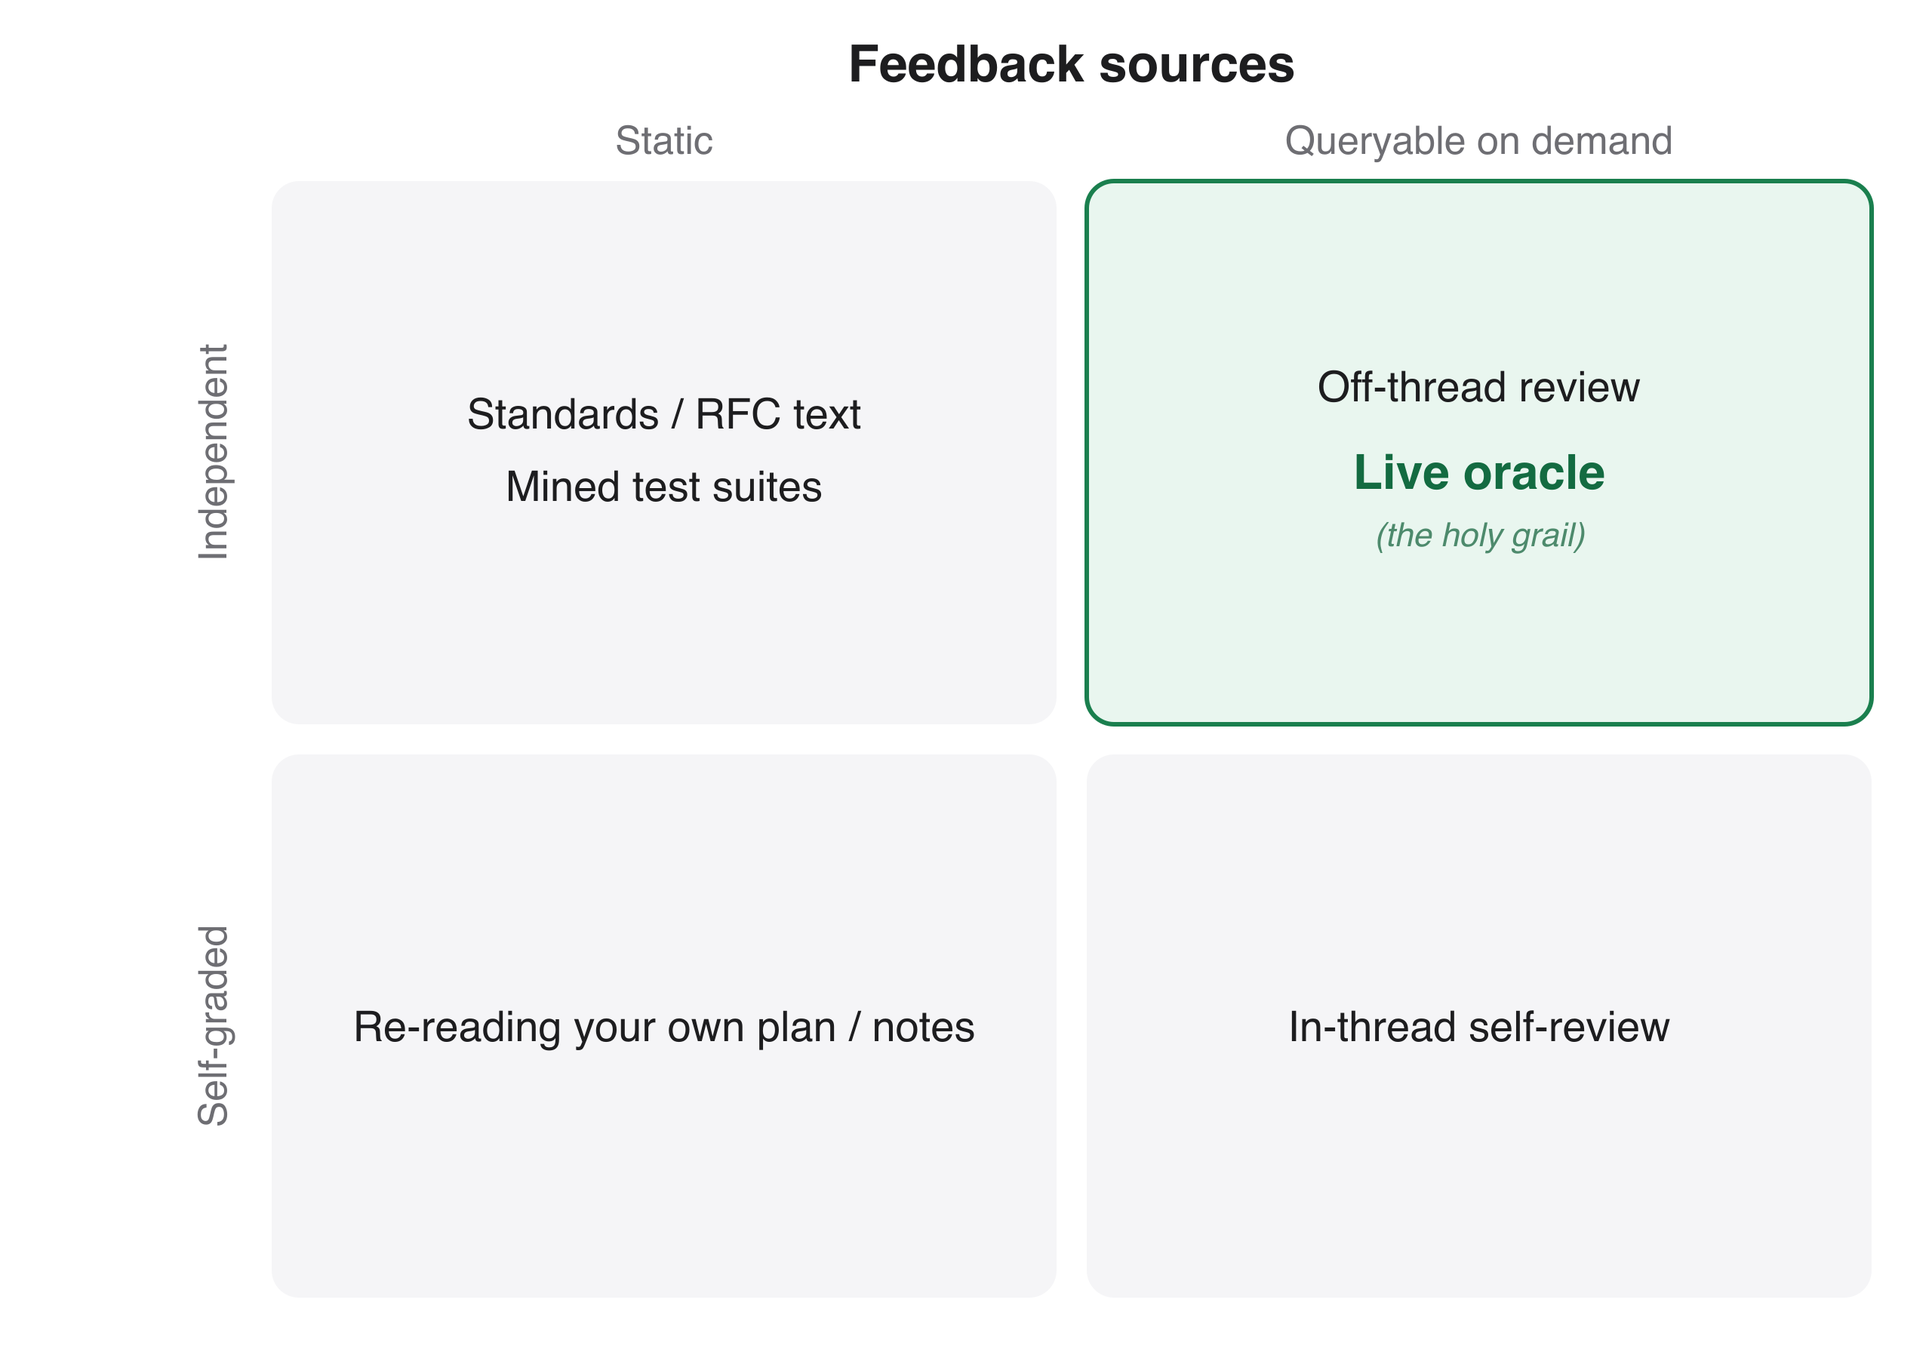
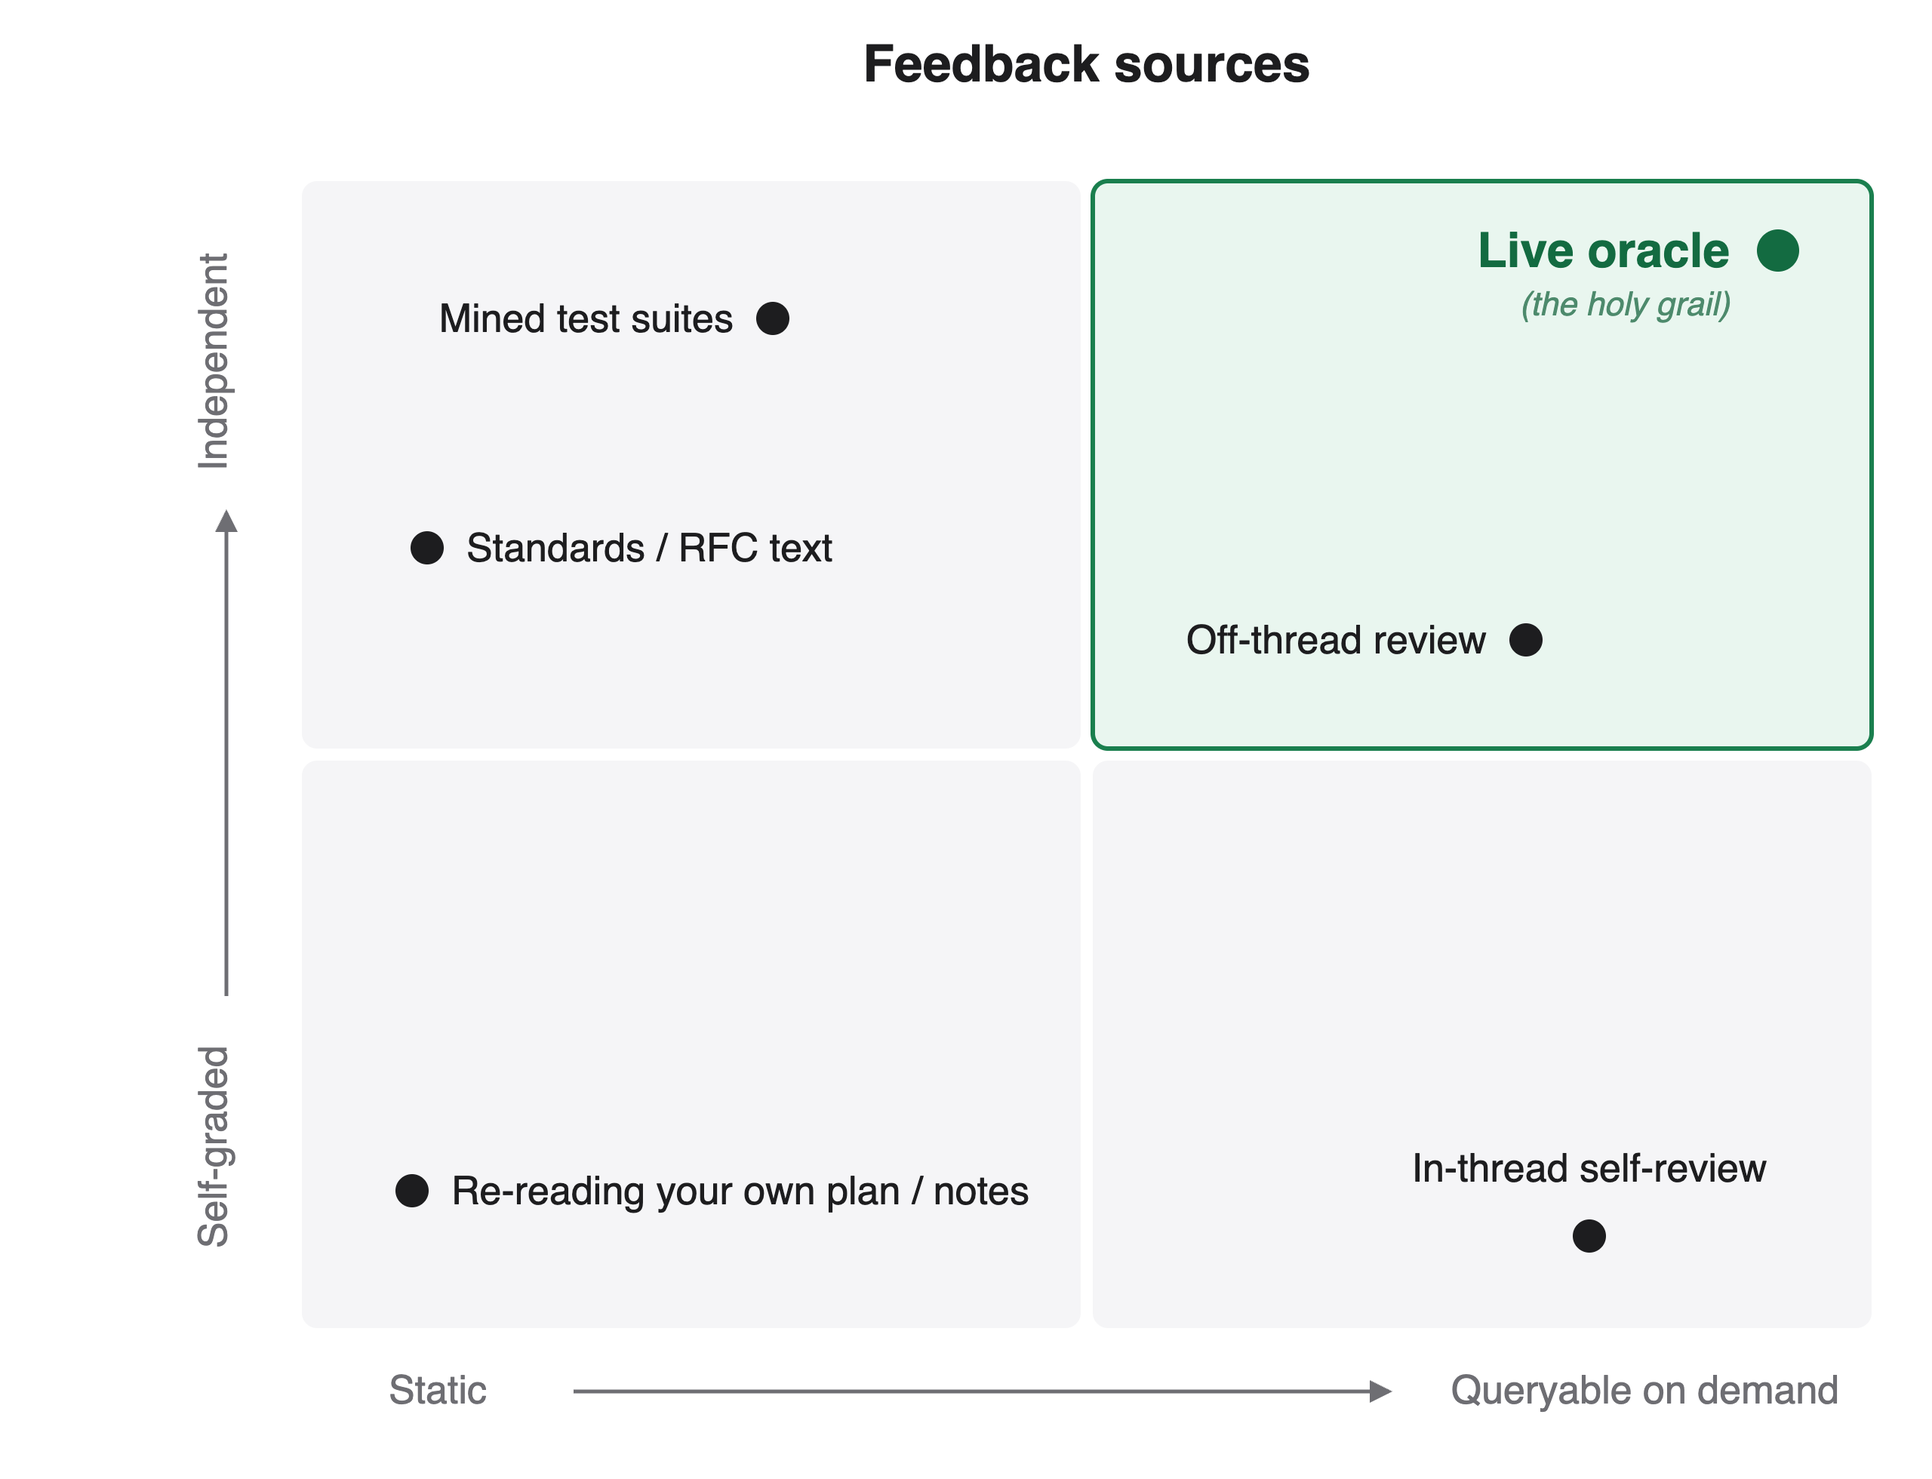
Updates

diff --git a/README.md b/README.md
@@ -1,6 +1,11 @@
 # Loop Driven Development
 
-*This repo collects my writing on loop driven development. This page makes the argument; three companion posts walk through real projects end to end — [building a corpus benchmark](ldd-in-practice.md), [grinding chart rendering against Excel](ldd-render-fidelity.md), and [performance work as a loop](ldd-perf.md) — and a closing post asks [whether codebases are learnable](learnable-codebases.md).*
+*This repo is a series of posts on how I've been using coding agents lately (June 2026). This page summarises my main thoughts, then several examples of this in practice, and a coda:*
+
+1. *[Loop Driven Development, in practice](01-ldd-in-practice.md) — building a corpus benchmark, decision by decision*
+2. *[Grinding chart rendering against Excel](02-ldd-render-fidelity.md) — a domain with no equality assertions*
+3. *[Performance work as a loop](03-ldd-perf.md) — same bytes, faster, with the oracle in an unusual place*
+4. *[Are codebases learnable?](04-learnable-codebases.md) — the closing post: is writing software so different from training a model?*
 
 ## The oracle problem
 
@@ -23,12 +28,7 @@ Agents improve by looping against feedback. As [Lance Martin puts it](https://x.
 - **Independence.** Does the feedback share provenance with the work, or does it come from somewhere the work can't reach? An agent grading its own output is student and examiner at once.
 - **Queryability.** Can you get an answer for a *new, specific input* on demand — or is the feedback a fixed artifact you can only read?
 
-![Feedback sources arranged by independence and queryability: self-graded and static is re-reading your own notes; self-graded and queryable is in-thread self-review; independent and static is standards text and mined test suites; independent and queryable is off-thread review and the live oracle — the holy grail](images/feedback-2x2.png)
-
-|  | Static | Queryable on demand |
-| :---- | :---- | :---- |
-| **Self-graded** | re-reading your own plan/notes | in-thread self-review |
-| **Independent** | standards/RFC text; mined test suites | off-thread review; **live oracle** |
+![Feedback sources plotted by independence and queryability: re-reading your own notes sits near the origin; in-thread self-review is queryable but has zero independence; standards text is independent but static, with mined test suites above it; off-thread review reaches the independent-and-queryable quadrant but well below the live oracle, which alone sits at the top-right corner — the holy grail](images/feedback-2x2.png)
 
 Ranked, worst to best:
 
@@ -78,7 +78,7 @@ Script the live reference. Capture inputs, ask the oracle, freeze the answers in
 
 **The operational artifact is a re-runnable recipe checked in alongside the snapshot.** The script does the live oracle query; the snapshot captures the result; CI asserts against the snapshot. When you need different output, suspect drift, or behavior changes — modify the script and re-run. The snapshot regenerates. The recipe is the provenance, the script is the version pin, the snapshot is the captured output. Nothing else is needed.
 
-**Distance assertions can stand in for equality assertions.** Instead of pinning each behavior by equality (`SUM("42", TRUE) == 43`), assert a distance over the whole output (`pixel_diff(impl, oracle) < 1%`; [Playwright's `toHaveScreenshot({ maxDiffPixelRatio })`](https://playwright.dev/docs/test-snapshots) is a mainstream instance; relative error for floats and edit distance for strings work the same way). Distance is cheaper to set up — one assertion covers the whole output, with no upfront enumeration of which details matter — and it works where clean equality isn't available (anti-aliasing, floating-point accumulation, natural-language outputs). The cost is actionability: a failing diff doesn't say which detail is wrong or what to fix next, and domain invariants stay implicit. Either way the agent gets an aggregate hill-climb signal: % green across an equality suite, or % differing pixels driven down across iterations. (The [chart rendering post](ldd-render-fidelity.md) is a full worked example of this, including a gate design that stops the metric going slack.)
+**Distance assertions can stand in for equality assertions.** Instead of pinning each behavior by equality (`SUM("42", TRUE) == 43`), assert a distance over the whole output (`pixel_diff(impl, oracle) < 1%`; [Playwright's `toHaveScreenshot({ maxDiffPixelRatio })`](https://playwright.dev/docs/test-snapshots) is a mainstream instance; relative error for floats and edit distance for strings work the same way). Distance is cheaper to set up — one assertion covers the whole output, with no upfront enumeration of which details matter — and it works where clean equality isn't available (anti-aliasing, floating-point accumulation, natural-language outputs). The cost is actionability: a failing diff doesn't say which detail is wrong or what to fix next, and domain invariants stay implicit. Either way the agent gets an aggregate hill-climb signal: % green across an equality suite, or % differing pixels driven down across iterations. (The [chart rendering post](02-ldd-render-fidelity.md) is a full worked example of this, including a gate design that stops the metric going slack.)
 
 **A typical setup:** a snapshot generator takes a list of cases, invokes the oracle programmatically, captures the output keyed by a per-case fingerprint, and writes JSON. The oracle is *never* invoked by the test runner — the CI lane and the developer/refresh lane are decoupled by the snapshot file. The generator supports targeted refresh (`--case`) and full rebuilds (`--refresh-all`). When behavior questions arise, modify the script's case definitions and re-run. *(For an Excel-compatible calc engine, this looks like: formula cases across math/trig, statistical, lookup, text, lambda, date categories; xlwings invokes Excel; results captured per-fingerprint to JSON.)*
 
@@ -104,7 +104,7 @@ LDD does not remove the human developer; it moves the work up a level. The creat
 
 4. **When the agent is done.** Not "all tests pass" — that's trivially true of an empty suite. Done is: every behavior dimension you named has cases, the case list covers the feature's input space, the oracle recipe is checked in, the snapshot is reproducible from it, CI asserts without the live oracle, and new behavior cannot land without either matching the oracle or deliberately updating it. Looping coding agents overshoot or stop short unless this is written down somewhere they re-check each turn — Codex's [`/goal` continuation template](https://github.com/openai/codex/blob/6014b6679ffbd92eeddffa3ad7b4402be6a7fefe/codex-rs/core/templates/goals/continuation.md) is one concrete spelling; [`/goal` in Claude Code and Outcomes in Claude Managed Agents](https://x.com/rlancemartin/status/2064397389189071163) are others — Outcomes spawns an independent grader sub-agent that must confirm the rubric is met before the agent may stop, keeping the done-check off-thread.
 
-That is still creative engineering — just creativity over the training environment rather than over each line of implementation. The companion posts in this repo show these four decisions being made on real projects, with the transcript excerpts where each happened: [the corpus benchmark](ldd-in-practice.md) walks through all four, [the chart rendering work](ldd-render-fidelity.md) is a deep dive on the comparison-shape decision, and [the performance campaign](ldd-perf.md) is all four again with the oracle in an unusual place — the current implementation itself.
+That is still creative engineering — just creativity over the training environment rather than over each line of implementation. The companion posts in this repo show these four decisions being made on real projects, with the transcript excerpts where each happened: [the corpus benchmark](01-ldd-in-practice.md) walks through all four, [the chart rendering work](02-ldd-render-fidelity.md) is a deep dive on the comparison-shape decision, and [the performance campaign](03-ldd-perf.md) is all four again with the oracle in an unusual place — the current implementation itself.
 
 ## Prior art
 
@@ -122,8 +122,8 @@ The parts are old and the loop is cheap; what's left to engineer is the feedback
 
 Open-source artifacts from this series:
 
-- [xlsx-corpus-bench](https://github.com/witanlabs/xlsx-corpus-bench) — the benchmark from [the corpus post](ldd-in-practice.md): 15,970 real-world workbooks, real Excel as the recalculation oracle, per-file receipts
-- [editable-handbooks](https://github.com/nfcampos/editable-handbooks) — the agent-editable memory format from [the closing post](learnable-codebases.md)
+- [xlsx-corpus-bench](https://github.com/witanlabs/xlsx-corpus-bench) — the benchmark from [the corpus post](01-ldd-in-practice.md): 15,970 real-world workbooks, real Excel as the recalculation oracle, per-file receipts
+- [editable-handbooks](https://github.com/nfcampos/editable-handbooks) — the agent-editable memory format from [the closing post](04-learnable-codebases.md)
 - [research-log](https://github.com/witanlabs/research-log) — four months of building an LLM spreadsheet agent; the earlier work referenced in the closing post
 
 Other open-source resources mentioned along the way:

diff --git a/04-learnable-codebases.md b/04-learnable-codebases.md
@@ -1,6 +1,6 @@
 # Are codebases learnable?
 
-*This post closes the loop driven development series. The [README](README.md) makes the argument and ends with a question — once you see code this way, is writing software really so different from training a model? — and the three practical posts ([a corpus benchmark](ldd-in-practice.md), [chart rendering](ldd-render-fidelity.md), [a performance campaign](ldd-perf.md)) keep raising it from different angles. This post takes the question seriously.*
+*This post closes the loop driven development series. The [README](README.md) makes the argument and ends with a question — once you see code this way, is writing software really so different from training a model? — and the three practical posts ([a corpus benchmark](01-ldd-in-practice.md), [chart rendering](02-ldd-render-fidelity.md), [a performance campaign](03-ldd-perf.md)) keep raising it from different angles. This post takes the question seriously.*
 
 ## Three ways to fit a function
 
@@ -12,7 +12,7 @@ There are three established ways to fit an artifact to a teacher's input → out
 
 Before agents, the third looked categorically different. Writing code was creative authorship; training a model was statistical fitting; nobody confused the two. With an agent in the loop, it's hard to maintain the distinction: in each case an optimizer iterates an artifact against sampled teacher input/output until the behavior matches. The artifact happens to be code.
 
-What convinced me isn't the analogy — it's that one optimizer now performs all three jobs. The same kind of coding agent that ground through 479 chart fixtures in the [rendering post](ldd-render-fidelity.md) will, handed a GPU box, hill-climb a training script: in [Parameter Golf](https://x.com/rlancemartin/status/2064397389189071163), an open ML-engineering challenge, the agent edits the training code, launches the run, polls the log, reads the score, and decides the next experiment. Prompt optimization went programmatic years ago — [DSPy](https://github.com/stanfordnlp/dspy) compiles prompts against a metric, [GEPA](https://arxiv.org/abs/2507.19457) mutates them against one. The activity is the same loop in all three; only the artifact changes. (I've lived the overlap directly: our published [research log](https://github.com/witanlabs/research-log) records one project optimizing prompts, code, and the eval harness itself against a single benchmark.)
+What convinced me isn't the analogy — it's that one optimizer now performs all three jobs. The same kind of coding agent that ground through 479 chart fixtures in the [rendering post](02-ldd-render-fidelity.md) will, handed a GPU box, hill-climb a training script: in [Parameter Golf](https://x.com/rlancemartin/status/2064397389189071163), an open ML-engineering challenge, the agent edits the training code, launches the run, polls the log, reads the score, and decides the next experiment. Prompt optimization went programmatic years ago — [DSPy](https://github.com/stanfordnlp/dspy) compiles prompts against a metric, [GEPA](https://arxiv.org/abs/2507.19457) mutates them against one. The activity is the same loop in all three; only the artifact changes. (I've lived the overlap directly: our published [research log](https://github.com/witanlabs/research-log) records one project optimizing prompts, code, and the eval harness itself against a single benchmark.)
 
 ## The differences are properties of the artifact
 
@@ -24,7 +24,7 @@ If the activity is the same, what actually distinguishes the three is the proper
 | Auditability | Low (weights opaque) | High (read the prompt) | High (read the source) |
 | Off-sample behavior | Probabilistic interpolation | Depends on base model | Deterministic for implemented features; absent otherwise |
 
-These aren't abstractions; you can watch each row in a working repo. Take auditability and off-sample behavior. The engine behind these posts keeps a checked-in coverage inventory that maps each public mutation and OOXML part to its test surface, with a section for known gaps — the *untrained region* of the artifact is a file you can read. There is no analogous file for a model's weights: off-distribution behavior isn't enumerable, only sampled. The optimization history is inspectable the same way — the [performance post](ldd-perf.md) describes a log where discarded experiments are recorded next to the kept ones, a training curve with the rejected gradient steps preserved. Even the training distribution is a legible choice: the engine's vendored JavaScript interpreter ships with the Test262 conformance suite in its fork, so the artifact carries its own teacher with it, and its fork notes say explicitly which behavior regions are cut.
+These aren't abstractions; you can watch each row in a working repo. Take auditability and off-sample behavior. The engine behind these posts keeps a checked-in coverage inventory that maps each public mutation and OOXML part to its test surface, with a section for known gaps — the *untrained region* of the artifact is a file you can read. There is no analogous file for a model's weights: off-distribution behavior isn't enumerable, only sampled. The optimization history is inspectable the same way — the [performance post](03-ldd-perf.md) describes a log where discarded experiments are recorded next to the kept ones, a training curve with the rejected gradient steps preserved. Even the training distribution is a legible choice: the engine's vendored JavaScript interpreter ships with the Test262 conformance suite in its fork, so the artifact carries its own teacher with it, and its fork notes say explicitly which behavior regions are cut.
 
 Which artifact to fit, then, is a question about required properties, not about which activity feels like engineering:
 

diff --git a/02-ldd-render-fidelity.md b/02-ldd-render-fidelity.md
@@ -1,6 +1,6 @@
 # Grinding chart rendering against Excel
 
-*Second in a series of practical examples of [Loop Driven Development](README.md) (the first covered [building a corpus benchmark](ldd-in-practice.md)). This one is about a domain where equality assertions don't exist: making headlessly-rendered charts look like Excel. The work lives in our engine repo, so unlike the corpus bench there's nothing to link — but the mechanics, the numbers, and the pictures are all below.*
+*Second in a series of practical examples of [Loop Driven Development](README.md) (the first covered [building a corpus benchmark](01-ldd-in-practice.md)). This one is about a domain where equality assertions don't exist: making headlessly-rendered charts look like Excel. The work lives in our engine repo, so unlike the corpus bench there's nothing to link — but the mechanics, the numbers, and the pictures are all below.*
 
 Our engine renders charts to pixels without Office installed: it reads the chart's OOXML, lays out axes and series and legends, and draws the result. The correctness question is "does this look like what Excel would draw?" — and that question resists the kind of per-behavior equality assertions the corpus bench used for formula evaluation. There is no cell you can compare. A bar chart is a few hundred thousand pixels, and Excel's exact output depends on layout decisions, color theming, font rasterization, and a long tail of defaults that the spec describes only loosely.
 

diff --git a/03-ldd-perf.md b/03-ldd-perf.md
@@ -1,6 +1,6 @@
 # Performance work as a loop: same bytes, faster
 
-*Third in a series of practical examples of [Loop Driven Development](README.md) (the others: [building a corpus benchmark](ldd-in-practice.md) and [grinding chart rendering against Excel](ldd-render-fidelity.md)). This one is about a performance campaign, which turns out to be LDD with the oracle in an unusual place. Excerpts are verbatim from the Claude Code session and commit messages.*
+*Third in a series of practical examples of [Loop Driven Development](README.md) (the others: [building a corpus benchmark](01-ldd-in-practice.md) and [grinding chart rendering against Excel](02-ldd-render-fidelity.md)). This one is about a performance campaign, which turns out to be LDD with the oracle in an unusual place. Excerpts are verbatim from the Claude Code session and commit messages.*
 
 A 68MB spreadsheet — 12.4 million cells of London Fire Brigade incident data — took our production xlsx service down with an out-of-memory error. The session that followed opened like this:
 
